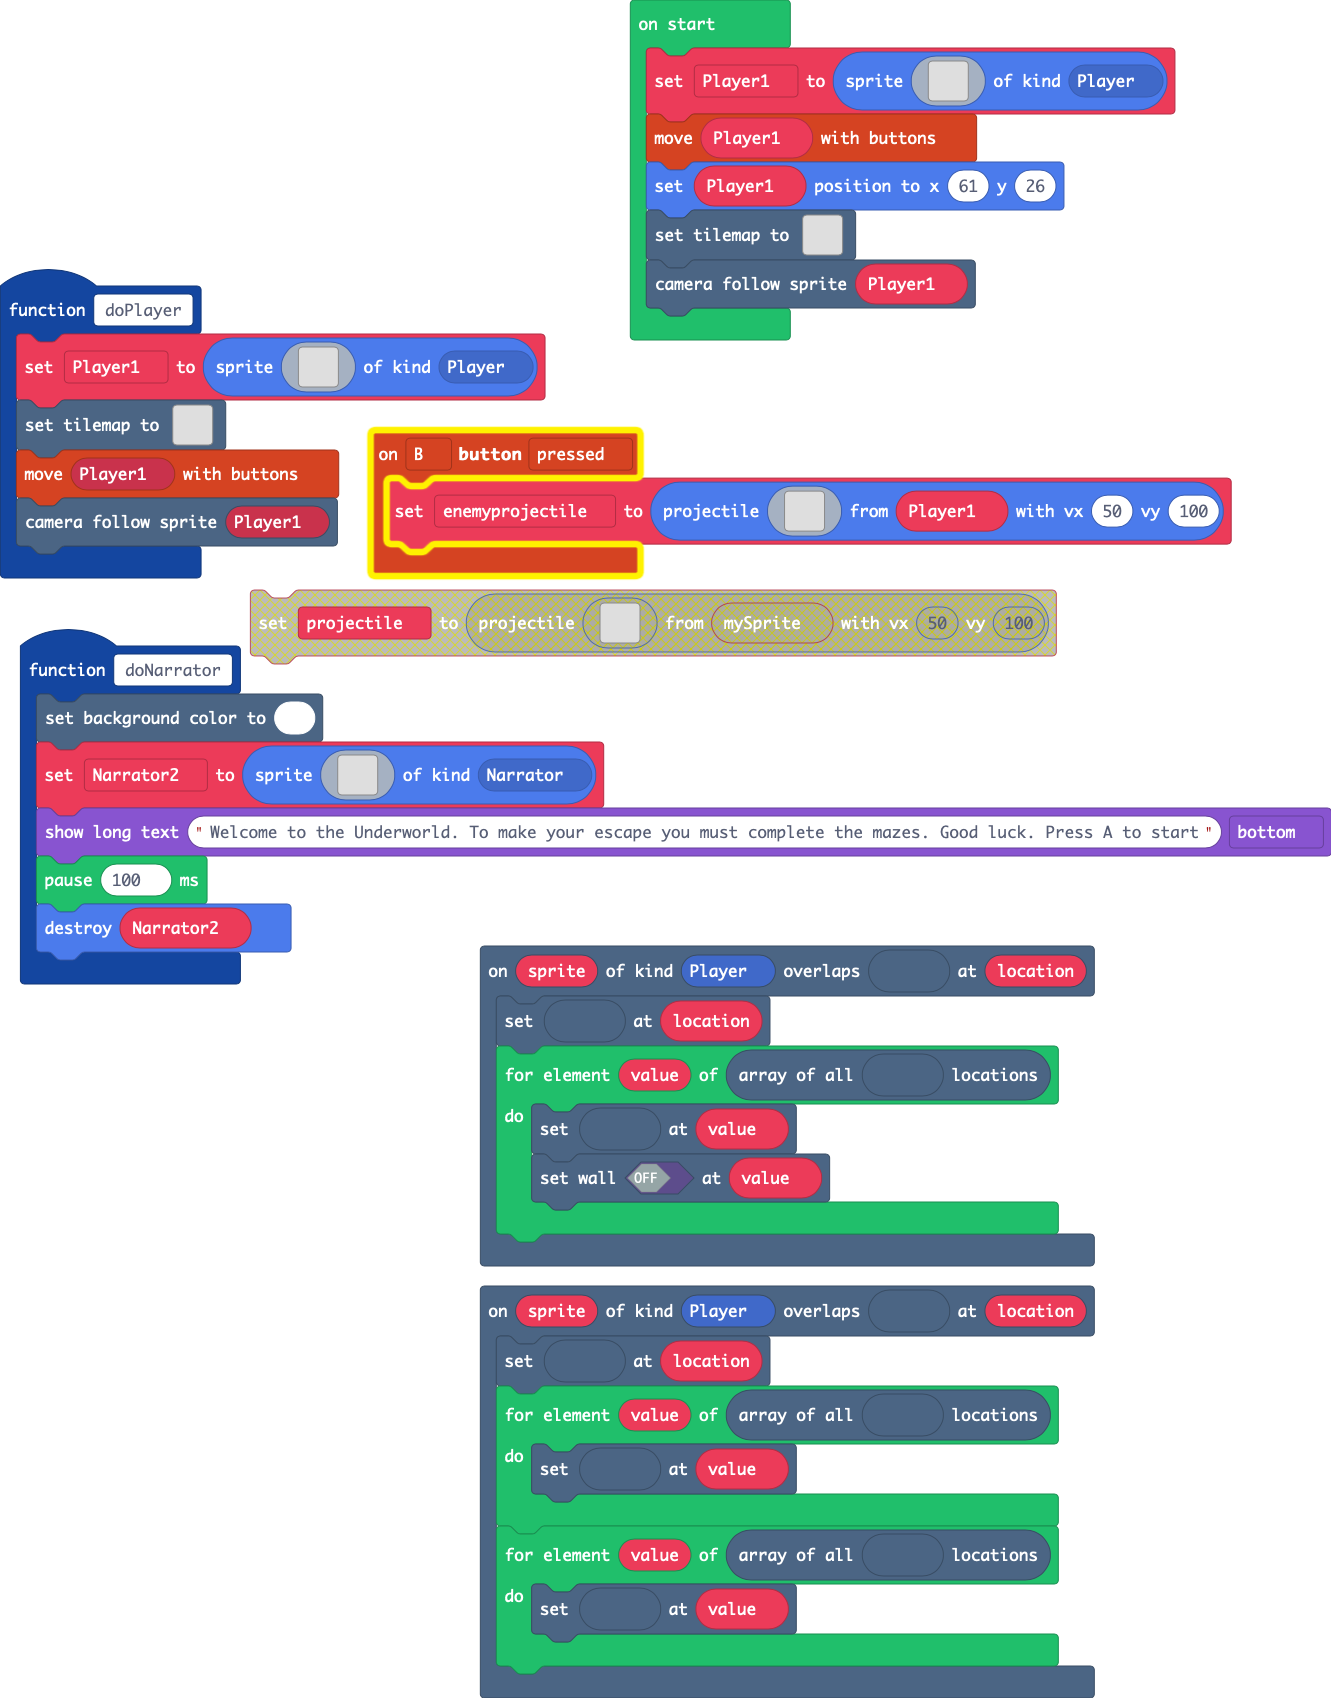
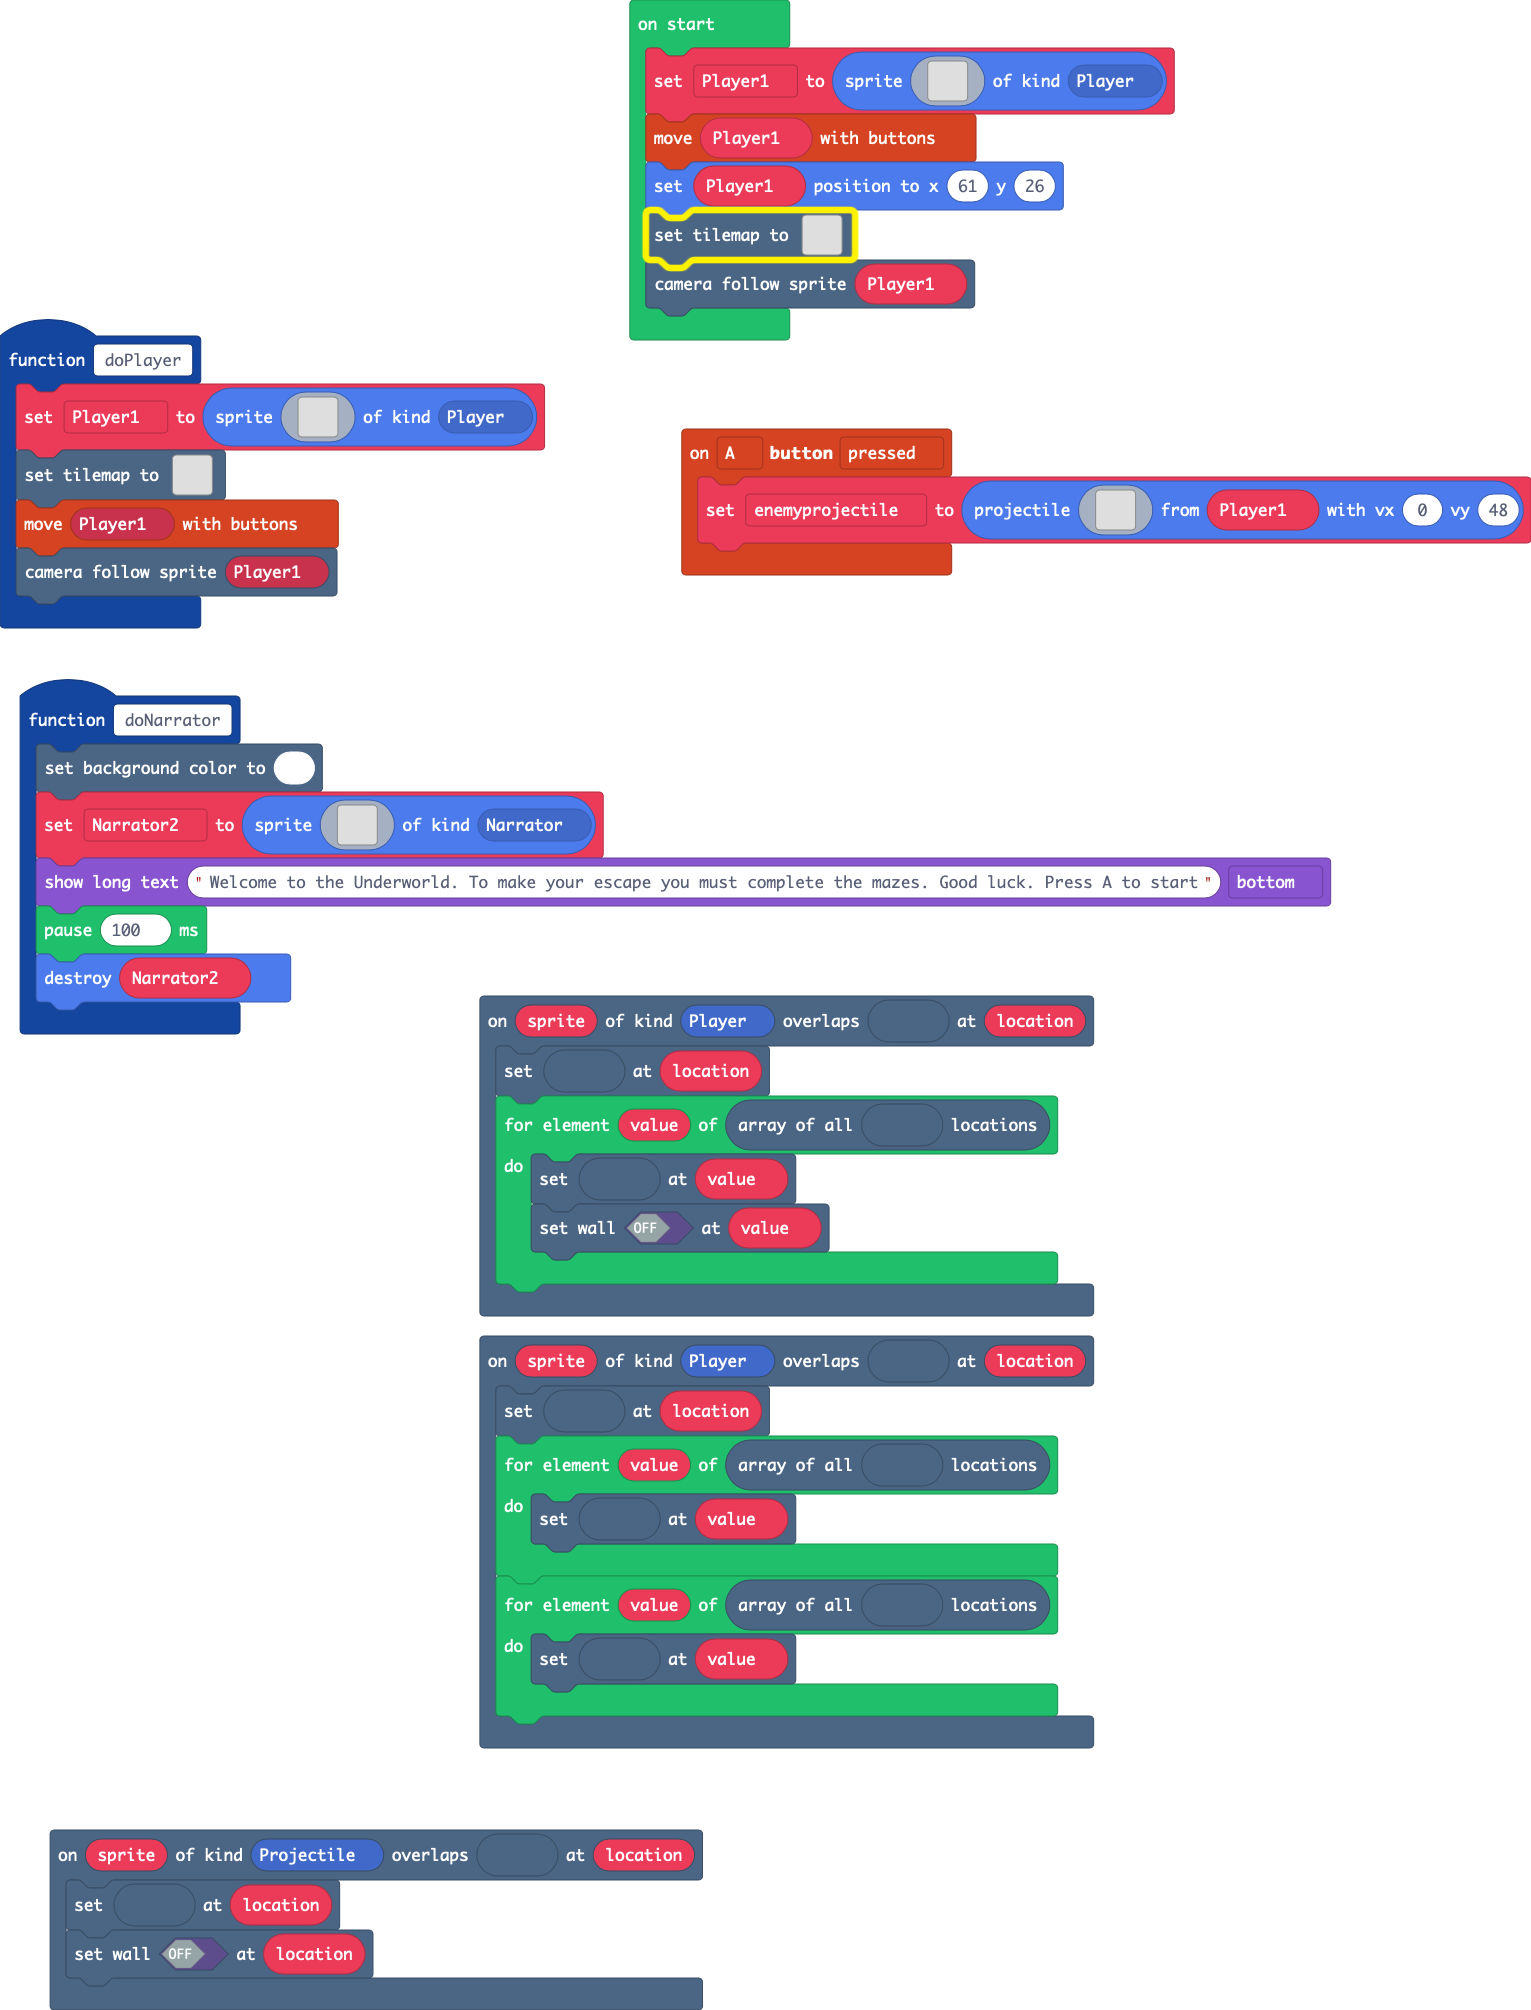
fixed the projectile bug

diff --git a/main.ts b/main.ts
@@ -22,6 +22,10 @@ namespace myTiles {
 . . . . . . . . . . . . . . . . 
 `
 }
+scene.onOverlapTile(SpriteKind.Projectile, sprites.dungeon.hazardSpike, function (sprite, location) {
+    tiles.setTileAt(location, sprites.dungeon.collectibleInsignia)
+    tiles.setWallAt(location, false)
+})
 function doNarrator () {
     scene.setBackgroundColor(1)
     Narrator2 = sprites.create(img`
@@ -62,26 +66,6 @@ scene.onOverlapTile(SpriteKind.Player, sprites.dungeon.buttonTeal, function (spr
     for (let value of tiles.getTilesByType(sprites.dungeon.stairLadder)) {
         tiles.setTileAt(value, sprites.dungeon.stairLarge)
     }
-})
-controller.B.onEvent(ControllerButtonEvent.Pressed, function () {
-    enemyprojectile = sprites.createProjectileFromSprite(img`
-. . . . . . . . . . . . . . . . 
-. . . . . . . . . . . . . . . . 
-. . . . . . . . . . . . . . . . 
-. . . . . . . . . . . . . . . . 
-. . . . . . c b a c . . . . . . 
-. . . . c c b c f a c . . . . . 
-. . . . a f b b b a c . . . . . 
-. . . . a f f b a f c c . . . . 
-. . . . c b b a f f c . . . . . 
-. . . . . b b a f a . . . . . . 
-. . . . . . c b b . . . . . . . 
-. . . . . . . . . . . . . . . . 
-. . . . . . . . . . . . . . . . 
-. . . . . . . . . . . . . . . . 
-. . . . . . . . . . . . . . . . 
-. . . . . . . . . . . . . . . . 
-`, Player1, 50, 100)
 })
 function doPlayer () {
     Player1 = sprites.create(img`
@@ -133,6 +117,26 @@ f b b b b f 2 2 2 2 f d 4 . . . . . . . . . . .
     controller.moveSprite(Player1)
     scene.cameraFollowSprite(Player1)
 }
+controller.A.onEvent(ControllerButtonEvent.Pressed, function () {
+    enemyprojectile = sprites.createProjectileFromSprite(img`
+. . . . . . . . . . . . . . . . 
+. . . . . . . . . . . . . . . . 
+. . . . . . . . . . . . . . . . 
+. . . . . . . . . . . . . . . . 
+. . . . . . c b a c . . . . . . 
+. . . . c c b c f a c . . . . . 
+. . . . a f b b b a c . . . . . 
+. . . . a f f b a f c c . . . . 
+. . . . c b b a f f c . . . . . 
+. . . . . b b a f a . . . . . . 
+. . . . . . c b b . . . . . . . 
+. . . . . . . . . . . . . . . . 
+. . . . . . . . . . . . . . . . 
+. . . . . . . . . . . . . . . . 
+. . . . . . . . . . . . . . . . 
+. . . . . . . . . . . . . . . . 
+`, Player1, 0, 48)
+})
 scene.onOverlapTile(SpriteKind.Player, sprites.dungeon.buttonOrange, function (sprite, location) {
     tiles.setTileAt(location, sprites.dungeon.floorLight0)
     for (let value of tiles.getTilesByType(sprites.dungeon.hazardSpike)) {
@@ -191,7 +195,7 @@ tiles.setTilemap(tiles.createTilemap(
 2 2 2 2 2 2 2 2 2 2 2 2 2 . . 2 
 2 2 2 2 2 2 2 2 2 2 2 2 2 . 2 2 
 `,
-            [myTiles.tile0,sprites.builtin.oceanDepths3,sprites.builtin.oceanDepths6,sprites.builtin.oceanDepths4,sprites.builtin.oceanDepths8,sprites.builtin.oceanDepths9,sprites.builtin.oceanSand6,sprites.builtin.oceanSand10,sprites.builtin.oceanSand3,sprites.builtin.oceanSand0,sprites.dungeon.greenOuterNorthWest,sprites.dungeon.greenOuterWest0,sprites.dungeon.greenOuterNorth1,sprites.dungeon.greenOuterNorthEast,sprites.dungeon.greenOuterEast0,sprites.dungeon.greenOuterSouthEast,sprites.dungeon.greenInnerSouthWest,sprites.dungeon.greenInnerSouthEast,sprites.dungeon.greenInnerNorthEast,sprites.dungeon.greenInnerNorthWest,sprites.dungeon.greenOuterSouth0,sprites.dungeon.greenOuterWest1,sprites.dungeon.greenOuterNorth0,sprites.dungeon.greenOuterSouthWest,sprites.dungeon.greenOuterSouth1,sprites.builtin.brick,sprites.dungeon.hazardSpike,sprites.dungeon.collectibleInsignia,sprites.builtin.crowd7,sprites.builtin.crowd1,sprites.builtin.crowd3,sprites.builtin.crowd0,sprites.builtin.crowd2,sprites.builtin.crowd4,sprites.builtin.crowd5,sprites.builtin.crowd6,sprites.builtin.crowd8,sprites.dungeon.hazardLava0,sprites.dungeon.hazardLava1,sprites.builtin.crowd9,sprites.dungeon.hazardWater,sprites.dungeon.stairLadder,sprites.dungeon.buttonOrange],
+            [myTiles.tile0,sprites.builtin.oceanDepths3,sprites.builtin.oceanDepths6,sprites.builtin.oceanDepths4,sprites.builtin.oceanDepths8,sprites.builtin.oceanDepths9,sprites.builtin.oceanSand6,sprites.builtin.oceanSand10,sprites.builtin.oceanSand3,sprites.builtin.oceanSand0,sprites.dungeon.greenOuterNorthWest,sprites.dungeon.greenOuterWest0,sprites.dungeon.greenOuterNorth1,sprites.dungeon.greenOuterNorthEast,sprites.dungeon.greenOuterEast0,sprites.dungeon.greenOuterSouthEast,sprites.dungeon.greenInnerSouthWest,sprites.dungeon.greenInnerSouthEast,sprites.dungeon.greenInnerNorthEast,sprites.dungeon.greenInnerNorthWest,sprites.dungeon.greenOuterSouth0,sprites.dungeon.greenOuterWest1,sprites.dungeon.greenOuterNorth0,sprites.dungeon.greenOuterSouthWest,sprites.dungeon.greenOuterSouth1,sprites.builtin.brick,sprites.dungeon.hazardSpike,sprites.dungeon.collectibleInsignia,sprites.builtin.crowd7,sprites.builtin.crowd1,sprites.builtin.crowd3,sprites.builtin.crowd0,sprites.builtin.crowd2,sprites.builtin.crowd4,sprites.builtin.crowd5,sprites.builtin.crowd6,sprites.builtin.crowd8,sprites.dungeon.hazardLava0,sprites.dungeon.hazardLava1,sprites.builtin.crowd9,sprites.dungeon.hazardWater,sprites.dungeon.stairLadder,sprites.dungeon.buttonOrange,sprites.castle.rock0],
             TileScale.Sixteen
         ))
 scene.cameraFollowSprite(Player1)
